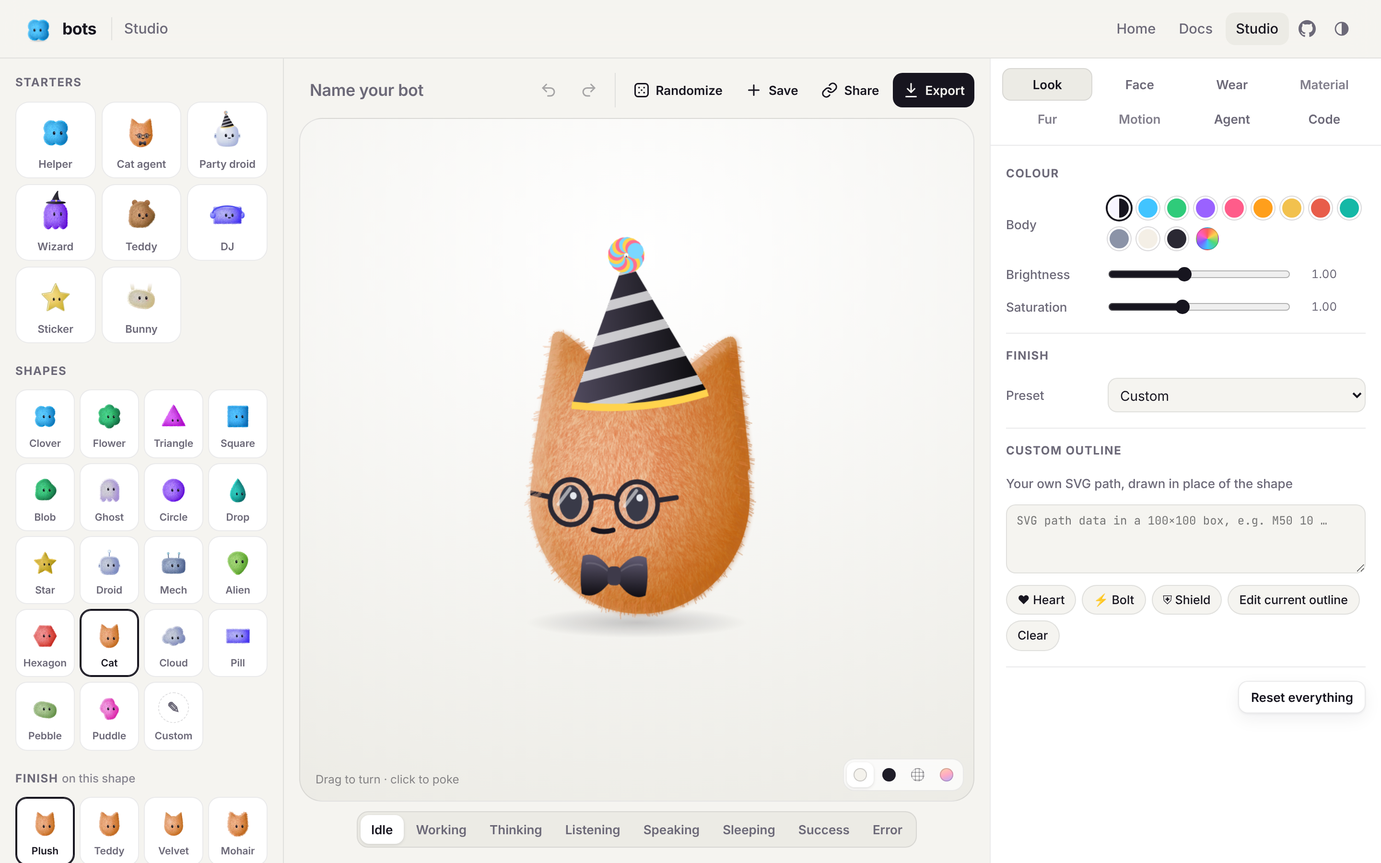
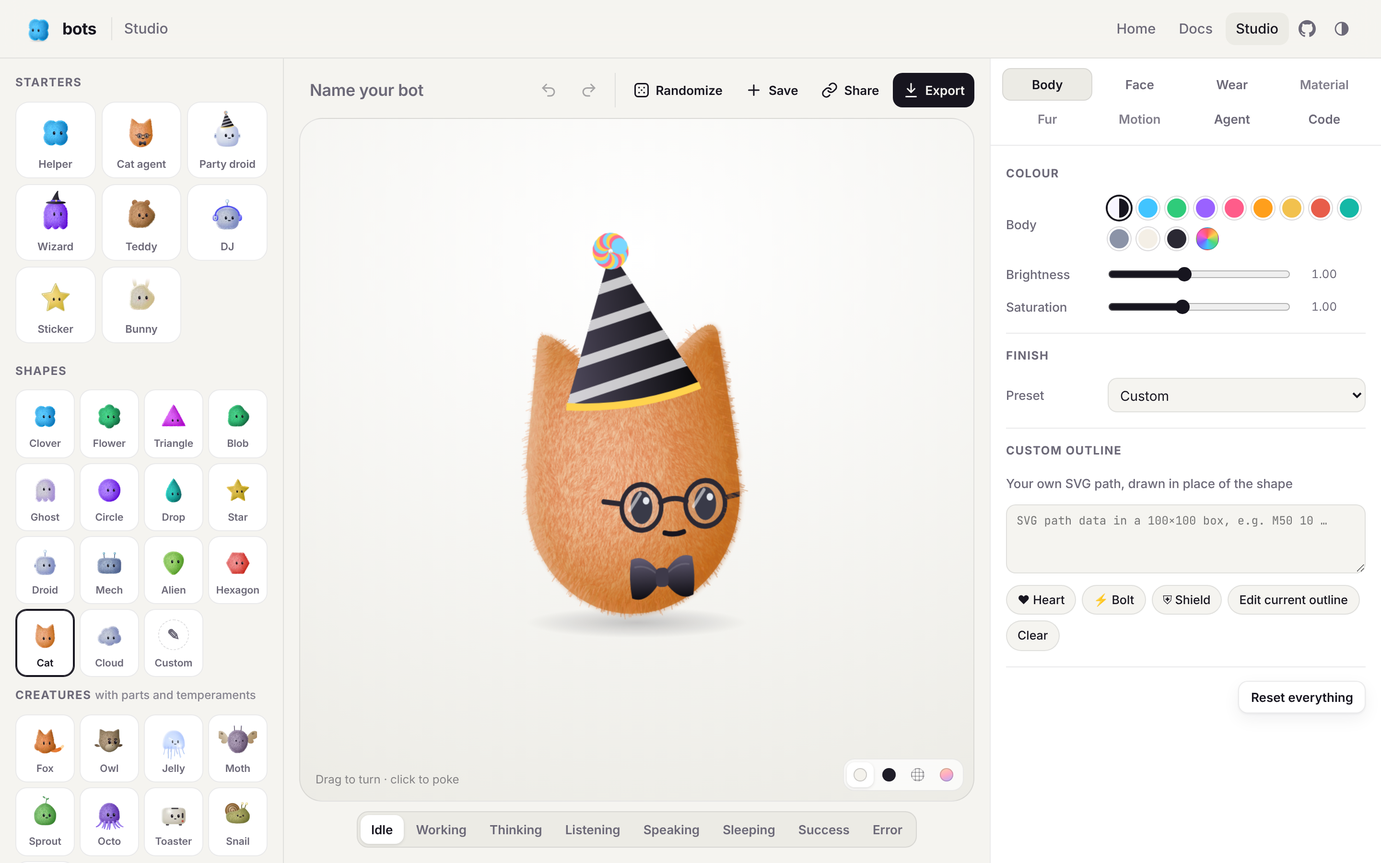
The cast: nine creatures, final budgets, README images; cut swarm, orb, glyph
The cast is fox, owl, jelly, moth, sprout, octo, toaster, snail and comet.
Swarm, orb and glyph are cut (their names resolve to living bodies), as are
the Studio's body-parts controls and its Mood control. The owl gets a beak
and more depth for its swivel. Size budgets are re-measured for the release
and the README gallery shows the new roster.

Claude-Session: https://claude.ai/code/session_012xf11w1ipyXASqityd5ZGd

diff --git a/docs/options.html b/docs/options.html
@@ -57,7 +57,7 @@
 
 <h2 id="basics">Basics<a class="anchor" href="#basics" aria-label="Link to this section">#</a></h2>
 <div class="table-wrap"><table class="props"><thead><tr><th scope="col">Option</th><th scope="col">Values</th><th scope="col">Default</th></tr></thead><tbody>
-<tr><td data-label="Option"><code>type</code></td><td data-label="Values"><code>clover</code>, <code>flower</code>, <code>triangle</code>, <code>blob</code>, <code>ghost</code>, <code>circle</code>, <code>drop</code>, <code>star</code>, <code>droid</code>, <code>mech</code>, <code>alien</code>, <code>hexagon</code>, <code>cat</code>, <code>cloud</code>, one of <a href="creatures.html">the cast</a> (<code>fox</code>, <code>owl</code>, <code>jelly</code>, <code>moth</code>, <code>sprout</code>, <code>octo</code>, <code>toaster</code>, <code>snail</code>, <code>comet</code>, <code>swarm</code>, <code>orb</code>, <code>glyph</code>), or one you registered. Retired names (<code>square</code>, <code>pill</code>, <code>pebble</code>, <code>puddle</code>, <code>pangolin</code>, <code>axolotl</code>) resolve to the nearest living body.</td><td data-label="Default"><code>clover</code></td></tr>
+<tr><td data-label="Option"><code>type</code></td><td data-label="Values"><code>clover</code>, <code>flower</code>, <code>triangle</code>, <code>blob</code>, <code>ghost</code>, <code>circle</code>, <code>drop</code>, <code>star</code>, <code>droid</code>, <code>mech</code>, <code>alien</code>, <code>hexagon</code>, <code>cat</code>, <code>cloud</code>, one of <a href="creatures.html">the cast</a> (<code>fox</code>, <code>owl</code>, <code>jelly</code>, <code>moth</code>, <code>sprout</code>, <code>octo</code>, <code>toaster</code>, <code>snail</code>, <code>comet</code>), or one you registered. Retired names (<code>square</code>, <code>pill</code>, <code>pebble</code>, <code>puddle</code>, <code>pangolin</code>, <code>axolotl</code>, <code>swarm</code>, <code>orb</code>, <code>glyph</code>) resolve to the nearest living body.</td><td data-label="Default"><code>clover</code></td></tr>
 <tr><td data-label="Option"><code>state</code></td><td data-label="Values"><code>default</code> (idle), <code>listening</code>, <code>thinking</code>, <code>speaking</code>, <code>working</code>, <code>success</code>, <code>error</code>, <code>sleeping</code>, or one you registered</td><td data-label="Default"><code>default</code></td></tr>
 <tr><td data-label="Option"><code>face</code></td><td data-label="Values"><code>eyes</code>, <code>mouth</code></td><td data-label="Default"><code>eyes</code></td></tr>
 <tr><td data-label="Option"><code>size</code></td><td data-label="Values">box size in px</td><td data-label="Default"><code>64</code></td></tr>
@@ -85,7 +85,7 @@
 <tr><td data-label="Option"><code>color</code></td><td data-label="Values">body colour, any CSS hex colour</td><td data-label="Default">the shape's own</td></tr>
 <tr><td data-label="Option"><code>ink</code></td><td data-label="Values">face colour</td><td data-label="Default">auto: dark on light bodies</td></tr>
 <tr><td data-label="Option"><code>brightness</code>, <code>saturation</code></td><td data-label="Values">0–2</td><td data-label="Default"><code>1</code></td></tr>
-<tr><td data-label="Option"><code>shading</code></td><td data-label="Values"><code>fabric</code> (plush fur), <code>plastic</code>, <code>smooth</code>, <code>crisp</code>, <code>flat</code>, <code>glass</code> (see-through, light pooling on the far side, a Fresnel rim), <code>lantern</code> (lit from within: glows brighter while it thinks, talks or laughs), <code>line</code> (an outline only, in the body colour, light on dark pages), <code>swarm</code> (dots that gather into the shape and scatter when it is low)</td><td data-label="Default"><code>fabric</code></td></tr>
+<tr><td data-label="Option"><code>shading</code></td><td data-label="Values"><code>fabric</code> (plush fur), <code>plastic</code>, <code>smooth</code>, <code>crisp</code>, <code>flat</code>, <code>glass</code> (see-through, light pooling on the far side, a Fresnel rim), <code>lantern</code> (lit from within: glows brighter while it thinks, talks or laughs), <code>line</code> (an outline only, in the body colour, light on dark pages)</td><td data-label="Default"><code>fabric</code></td></tr>
 <tr><td data-label="Option"><code>glow</code>, <code>glowColor</code></td><td data-label="Values">lantern: strength 0–2, colour</td><td data-label="Default"><code>1</code>, a lighter body tint</td></tr>
 <tr><td data-label="Option"><code>opacity</code></td><td data-label="Values">glass: how see-through, 0–1</td><td data-label="Default"><code>0.8</code></td></tr>
 <tr><td data-label="Option"><code>age</code></td><td data-label="Values">a lifecycle creature's age, 0 (seed) to 1 (grown)</td><td data-label="Default"><code>1</code></td></tr>
@@ -164,7 +164,7 @@
 
 <h2 id="motion">Motion<a class="anchor" href="#motion" aria-label="Link to this section">#</a></h2>
 <div class="table-wrap"><table class="props"><thead><tr><th scope="col">Option</th><th scope="col">Values</th><th scope="col">Default</th></tr></thead><tbody>
-<tr><td data-label="Option"><code>temperament</code></td><td data-label="Values"><code>auto</code> (the type's own), <code>none</code>, or one of <code>eager</code>, <code>sunny</code>, <code>sharp</code>, <code>stoic</code>, <code>wobbly</code>, <code>shy</code>, <code>calm</code>, <code>nervous</code>, <code>showOff</code>, <code>precise</code>, <code>steady</code>, <code>curious</code>, <code>serious</code>, <code>aloof</code>, <code>dreamy</code>, <code>chipper</code>, <code>sleepy</code>, and the cast's <code>sly</code>, <code>scholar</code>, <code>drawn</code>, <code>busy</code>, <code>perky</code>, <code>patient</code>, <code>hive</code>, <code>serene</code></td><td data-label="Default"><code>auto</code></td></tr>
+<tr><td data-label="Option"><code>temperament</code></td><td data-label="Values"><code>auto</code> (the type's own), <code>none</code>, or one of <code>eager</code>, <code>sunny</code>, <code>sharp</code>, <code>stoic</code>, <code>wobbly</code>, <code>shy</code>, <code>calm</code>, <code>nervous</code>, <code>showOff</code>, <code>precise</code>, <code>steady</code>, <code>curious</code>, <code>serious</code>, <code>aloof</code>, <code>dreamy</code>, <code>chipper</code>, <code>sleepy</code>, and the cast's <code>sly</code>, <code>scholar</code>, <code>drawn</code>, <code>busy</code>, <code>perky</code>, <code>patient</code></td><td data-label="Default"><code>auto</code></td></tr>
 <tr><td data-label="Option"><code>speed</code></td><td data-label="Values">animation speed multiplier</td><td data-label="Default"><code>1</code></td></tr>
 <tr><td data-label="Option"><code>turn</code></td><td data-label="Values">how far it looks round</td><td data-label="Default"><code>1</code></td></tr>
 <tr><td data-label="Option"><code>blinkRate</code>, <code>glanceRate</code></td><td data-label="Values">multipliers</td><td data-label="Default"><code>1</code></td></tr>

diff --git a/docs/creatures.html b/docs/creatures.html
@@ -5,7 +5,7 @@
   <meta charset="utf-8" />
   <meta name="viewport" content="width=device-width, initial-scale=1" />
   <title>The cast · bots docs</title>
-  <meta name="description" content="Twelve creatures beyond the first fourteen shapes: parts with motion of their own, temperaments, materials, a lifecycle, and how to make your own." />
+  <meta name="description" content="Nine creatures beyond the first fourteen shapes: parts with motion of their own, temperaments, materials, a lifecycle, and how to make your own." />
   <meta name="theme-color" content="#f5f4f0" media="(prefers-color-scheme: light)" />
   <meta name="theme-color" content="#111016" media="(prefers-color-scheme: dark)" />
   <script>try{var t=localStorage.getItem('bots-theme');if(t)document.documentElement.dataset.theme=t}catch(e){}</script>
@@ -63,9 +63,6 @@
 <tr><td data-label="Creature"><code>toaster</code></td><td data-label="What it is">The appliance</td><td data-label="Temperament"><code>perky</code></td><td data-label="Parts and habits">a slot, a lever, and toast that pops on success</td></tr>
 <tr><td data-label="Creature"><code>snail</code></td><td data-label="What it is">The patient one: eyes on stalks, a shell</td><td data-label="Temperament"><code>patient</code> (slow)</td><td data-label="Parts and habits">retreats into its shell on error and to sleep</td></tr>
 <tr><td data-label="Creature"><code>comet</code></td><td data-label="What it is">The fast-mode mascot: a lantern star</td><td data-label="Temperament"><code>showOff</code> (spins)</td><td data-label="Parts and habits">a streak that lengthens with speed</td></tr>
-<tr><td data-label="Creature"><code>swarm</code></td><td data-label="What it is">The crew: dots that gather into one shape</td><td data-label="Temperament"><code>hive</code> (floats)</td><td data-label="Parts and habits">the <code>swarm</code> material; scatters when it is low</td></tr>
-<tr><td data-label="Creature"><code>orb</code></td><td data-label="What it is">The serious family: a glass sphere</td><td data-label="Temperament"><code>serene</code> (floats, still)</td><td data-label="Parts and habits">no face until it speaks, reacts or looks (<code>faceOn: 'talk'</code>)</td></tr>
-<tr><td data-label="Creature"><code>glyph</code></td><td data-label="What it is">The monochrome line family</td><td data-label="Temperament"><code>precise</code> (snap blinks)</td><td data-label="Parts and habits">the <code>line</code> material: an outline in its colour, light on dark pages</td></tr>
 </tbody></table></div>
 <p>Use them like any type: <code>&lt;bot-avatar type="owl"&gt;</code>, <code>createBot(el, { type: 'octo' })</code>. Each brings its own defaults (the jelly is glass, the comet a lantern, the glyph a line); anything you set wins. <code>identity</code> keeps the draw it always had, so an id keeps its bot (an id that drew a retired shape gets that shape's successor).</p>
 
@@ -75,7 +72,7 @@
 <h2 id="bodies-that-change">Bodies that change<a class="anchor" href="#bodies-that-change" aria-label="Link to this section">#</a></h2>
 <p>A creature can have another outline it becomes in some states (<code>morph</code>): the snail's shell. The body blends between the two over a moment, keeping its fur. A creature can also have a lifecycle (<code>stages</code>): the sprout is a seed at <code>age: 0</code>, a hatchling at <code>0.5</code>, grown at <code>1</code>. Age is yours to keep (a count of sessions, days since it hatched); pass it back and it grows.</p>
 <pre class="code" data-lang="html">&lt;bot-avatar type="sprout" age="0.2"&gt;&lt;/bot-avatar&gt;
-&lt;bot-avatar type="orb" state="speaking"&gt;&lt;/bot-avatar&gt;   &lt;!-- the face appears --&gt;</pre>
+&lt;bot-avatar type="snail" state="sleeping"&gt;&lt;/bot-avatar&gt;   &lt;!-- retreats into its shell --&gt;</pre>
 
 <h2 id="your-own-creature">Your own creature<a class="anchor" href="#your-own-creature" aria-label="Link to this section">#</a></h2>
 <p>The built-in cast lives in <code>src/creatures/</code>, one module each, and <code>registerCreature()</code> takes the same format:</p>

diff --git a/playground/app.js b/playground/app.js
@@ -101,14 +101,14 @@ const STRS = {
   accessoryColor: undefined, path: undefined, label: undefined, preset: undefined, furPattern: 'none', furColor2: undefined,
   lightColor: undefined, fillColor: undefined, rimColor: undefined, eyeStyle: 'round', irisColor: undefined, brows: 'auto',
   mouthStyle: 'smile', expression: 'neutral', whirlColor: undefined, scarfColor: undefined, badge: undefined, badgeColor: undefined,
-  ears: 'none', antennae: 'auto', blushColor: undefined, status: 'none', mood: 'auto',
+  ears: 'none', antennae: 'auto', blushColor: undefined, status: 'none',
   quirk: undefined, temperament: 'auto', glowColor: undefined, faceOn: undefined,
 };
 // `sounds` is a boolean or a volume (0–1).
 const SPECIAL = { sounds: false };
 const KEYS = [...Object.keys(STRS), ...Object.keys(NUMERIC), ...Object.keys(BOOLS), ...Object.keys(SPECIAL)];
 // Options that belong to the newer agent/play features: only sent when supported.
-const NEW_KEYS = ['status', 'mood', 'social', 'toss', 'petting', 'sounds', 'affect', 'announce'];
+const NEW_KEYS = ['status', 'social', 'toss', 'petting', 'sounds', 'affect', 'announce'];
 
 const defaultOf = (key, o) => {
   // A preset's values are the starting point its controls show.
@@ -546,7 +546,6 @@ tabPanel('look', () => [
   grp('Finish',
     select('preset', 'Preset', ['', ...Object.keys(STYLES)], ['Custom', ...Object.keys(STYLES).map(title)]),
     ageRow),
-  grp('Body parts', ...bodyParts()),
   grp('Custom outline',
     h('label', { class: 'lbl block', for: 'path' }, 'Your own SVG path, drawn in place of the shape'),
     pathArea,
@@ -615,23 +614,6 @@ syncs.push(() => {
   for (const t of tiles) t.b.setAttribute('aria-pressed', String(t.on()));
   refreshTiles();
 });
-
-// --- Body parts (on the Body tab) ------------------------------------------------------
-
-function bodyParts() {
-  const ears = [['none', 'No ears'], ...EAR_STYLES.filter((v) => v !== 'none').map((v) => [v, `${title(v)} ears`])];
-  const ants = [['auto', "Shape's own"], ['none', 'No antennae'], ['one', 'Antenna'], ['two', 'Antennae']];
-  return [
-    tileGrid(ears.map(([v, label]) => ({
-      key: `ears:${v}`, label, look: () => ({ ears: v, thumbZoom: 1.3, thumbDy: -0.08 }),
-      on: () => (opts.ears || 'none') === v, tap: () => update({ ears: v === 'none' ? undefined : v }),
-    }))),
-    tileGrid(ants.map(([v, label]) => ({
-      key: `antennae:${v}`, label, look: () => ({ antennae: v, thumbZoom: 1.3, thumbDy: -0.08 }),
-      on: () => (opts.antennae || 'auto') === v, tap: () => update({ antennae: v === 'auto' ? undefined : v }),
-    }))),
-  ];
-}
 
 // --- Wear ----------------------------------------------------------------------------
 
@@ -778,7 +760,7 @@ const quirkChips = QUIRKS.map((q) => {
 
 tabPanel('light', () => [
   grp('Material',
-    chipRow('shading', 'Material', SHADINGS, ['Plush', 'Plastic', 'Smooth', 'Crisp', 'Flat', 'Glass', 'Lantern', 'Line', 'Swarm']),
+    chipRow('shading', 'Material', SHADINGS, ['Plush', 'Plastic', 'Smooth', 'Crisp', 'Flat', 'Glass', 'Lantern', 'Line']),
     range('roundness', 'Roundness'),
     range('gloss', 'Gloss'),
     range('depth', 'Depth'),
@@ -1003,7 +985,6 @@ tabPanel('agent', () => [
       return b;
     })),
     when(supports('status'), chipRow('status', 'Status badge', ['none', 'typing', 'loading', 'done', 'error', 'auto'], ['None', 'Typing…', 'Loading', 'Done', 'Error', 'Auto'])),
-    when(supports('mood'), select('mood', 'Mood', ['auto', 'neutral', 'happy', 'sleepy', 'excited', 'grumpy', 'calm'], ['Automatic', 'Neutral', 'Happy', 'Sleepy', 'Excited', 'Grumpy', 'Calm'])),
     when(supports('social'), toggles(toggle('social', 'Social: glance at other bots (adds a friend)')))),
   grp('React',
     h('div', { class: 'chips' }, ...['happy', 'joy', 'surprised', 'love', 'confused', 'worried', 'sad', 'angry', 'dizzy', 'smug'].map((e) =>

diff --git a/src/render.js b/src/render.js
@@ -556,33 +556,6 @@ function stagedShape(shape, age) {
   return blendShapes(st[i], st[i + 1], q / AGE_STEPS, `a${q}`);
 }
 
-/** Dots filling a silhouette, for the swarm: a jittered grid, kept per shape. */
-const swarmCache = new WeakMap();
-function swarmDots(shape) {
-  let d = swarmCache.get(shape);
-  if (d) return d;
-  const rand = mulberry32(0.4242);
-  const pts = shape.points;
-  const inside = (x, y) => {
-    let c = false;
-    for (let i = 0, j = pts.length - 1; i < pts.length; j = i++) {
-      const [xi, yi] = pts[i], [xj, yj] = pts[j];
-      if (yi > y !== yj > y && x < ((xj - xi) * (y - yi)) / (yj - yi) + xi) c = !c;
-    }
-    return c;
-  };
-  d = [];
-  const step = 0.125;
-  for (let y = shape.bounds.minY + step * 0.5; y < shape.bounds.maxY; y += step) {
-    for (let x = shape.bounds.minX + step * 0.5; x < shape.bounds.maxX; x += step) {
-      const px = x + (rand() - 0.5) * step * 0.7, py = y + (rand() - 0.5) * step * 0.7;
-      if (inside(px * 1.04, py * 1.04)) d.push({ x: px, y: py, r: 0.6 + rand() * 0.6, ph: rand() * Math.PI * 2, u: rand() * 2 - 1 });
-    }
-  }
-  swarmCache.set(shape, d);
-  return d;
-}
-
 export function drawBot(ctx, { size, dpr = 1, pose, look, time = 0 }, { gpu = null, relaxed = false } = {}) {
   const full = size * OVERSCAN;
   ctx.setTransform(dpr, 0, 0, dpr, 0, 0);
@@ -599,9 +572,9 @@ export function drawBot(ctx, { size, dpr = 1, pose, look, time = 0 }, { gpu = nu
   const lx = Math.sin(la), ly = -Math.cos(la);
   const fabric = look.shading === 'fabric';
   const glass = look.shading === 'glass', lantern = look.shading === 'lantern';
-  // Line (a stroked outline, no body) and swarm (dots) have no solid body at all.
-  const line = look.shading === 'line', swarm = look.shading === 'swarm';
-  const hollow = line || swarm;
+  // Line art (a stroked outline) has no solid body at all.
+  const line = look.shading === 'line';
+  const hollow = line;
   // Glass is see-through: its body is painted at part alpha, which the GPU body doesn't do.
   if (glass || hollow) gpu = null;
   // Line art draws in the body colour, flipped to light on a dark page when the colour is dark.
@@ -964,25 +937,6 @@ export function drawBot(ctx, { size, dpr = 1, pose, look, time = 0 }, { gpu = nu
       lc.strokeStyle = lineC;
       lc.lineWidth = Math.max(1.5, R * 0.06);
       lc.stroke(stack(shapePath(shape), [slices[slices.length - 1]]));
-    } else {
-      // The swarm: dots fill the silhouette, drifting a little, spreading when it's low.
-      const dots = swarmDots(shape);
-      const spread = 0.15 * pose.sleep + 0.4 * Math.max(0, -pose.smile - 0.3) + 0.08 * pose.think;
-      const dim = 1 - spread * 0.5;
-      const rr = R * (look.swarmSize ?? 0.05);
-      const fy = shape.faceY, fsw = 0.42 * shape.faceScale;
-      for (const d of dots) {
-        // Dots thin out round the face, so the eyes read through the cloud.
-        const nearFace = clamp(1 - Math.hypot(d.x / 1.3, (d.y - fy) / 0.9) / fsw, 0, 1);
-        const wx = Math.sin(time * 1.3 + d.ph) * 0.02 + d.u * spread * 0.5 * (0.6 + 0.4 * Math.sin(time * 0.7 + d.ph));
-        const wy = Math.cos(time * 1.1 + d.ph * 1.3) * 0.02 + spread * 0.3 * Math.sin(d.ph);
-        const [X, Y] = proj(d.x * (1 + spread * 0.6) + wx, d.y * (1 + spread * 0.4) + wy, d.u * D * 0.5);
-        const lit = 0.5 + 0.5 * (d.x * lx + d.y * ly);
-        lc.fillStyle = rgba(shade(base, -0.2 + 0.35 * lit), (0.75 + 0.25 * d.r) * dim * (1 - nearFace * 0.7));
-        lc.beginPath();
-        lc.arc(X, Y, rr * d.r * (1 + d.u * D * 0.3 * s) * (1 - nearFace * 0.45), 0, Math.PI * 2);
-        lc.fill();
-      }
     }
   }
   // Hollow bodies have no silhouette to paint inside: everything goes on top.

diff --git a/src/index.d.ts b/src/index.d.ts
@@ -1,14 +1,14 @@
 export type BotType =
   | 'clover' | 'flower' | 'triangle' | 'blob' | 'ghost' | 'circle' | 'drop' | 'star'
   | 'droid' | 'mech' | 'alien' | 'hexagon' | 'cat' | 'cloud'
-  | 'fox' | 'owl' | 'jelly' | 'moth' | 'sprout' | 'octo' | 'toaster' | 'snail' | 'comet' | 'swarm' | 'orb' | 'glyph';
+  | 'fox' | 'owl' | 'jelly' | 'moth' | 'sprout' | 'octo' | 'toaster' | 'snail' | 'comet';
 export type BotState = 'default' | 'working' | 'sleeping' | 'listening' | 'thinking' | 'speaking' | 'error' | 'success' | (string & {});
-export type BotShading = 'fabric' | 'plastic' | 'smooth' | 'crisp' | 'flat' | 'glass' | 'lantern' | 'line' | 'swarm';
+export type BotShading = 'fabric' | 'plastic' | 'smooth' | 'crisp' | 'flat' | 'glass' | 'lantern' | 'line';
 /** Imperfections: a sewn-on patch, a tuft on the crown, a worn spot, a seam. One or more, space-separated or an array. */
 export type BotQuirk = 'patch' | 'cowlick' | 'scuff' | 'stitches';
 /** How a species behaves: motion defaults, a resting-face lean and habits (aloof looks away, shy ducks when poked, dreamy floats, precise snaps). */
 export type BotTemperament = 'eager' | 'sunny' | 'sharp' | 'stoic' | 'wobbly' | 'shy' | 'calm' | 'nervous' | 'showOff' | 'precise' | 'steady' | 'curious' | 'serious' | 'aloof' | 'dreamy' | 'chipper' | 'sleepy'
-  | 'sly' | 'scholar' | 'drawn' | 'busy' | 'perky' | 'patient' | 'hive' | 'serene' | (string & {});
+  | 'sly' | 'scholar' | 'drawn' | 'busy' | 'perky' | 'patient' | (string & {});
 /** A part a creature has beyond its body, drawn with motion of its own (see the Creatures guide). */
 export interface BotPart { kind: 'tail' | 'tendrils' | 'wings' | 'frills' | 'arms' | 'shell' | 'plates' | 'slot' | 'popup' | 'sprig' | 'knob' | 'spiral' | 'streak' | 'beak'; layer?: 'skin' | 'back' | 'front'; [param: string]: unknown }
 /** A creature module: a preset plus parts, a temperament, defaults, a morph outline and a lifecycle. */
@@ -28,7 +28,7 @@ export type BotHat = 'none' | 'beanie' | 'party' | 'crown' | 'beret' | 'tophat' 
 export type BotEyeStyle = 'round' | 'oval' | 'wide' | 'dot' | 'sleepy' | 'happy' | 'line' | 'star' | 'heart';
 export type BotMouthStyle = 'smile' | 'cat' | 'line' | 'o' | 'teeth' | 'tongue';
 export type BotFurPattern = 'none' | 'two-tone' | 'gradient' | 'tips' | 'spots' | 'stripes' | 'belly' | 'patches';
-export type BotStyle = 'plush' | 'teddy' | 'velvet' | 'mohair' | 'felt' | 'vinyl' | 'clay' | 'sticker' | 'paper' | 'glass' | 'lantern' | 'ragdoll' | 'line' | 'swarm';
+export type BotStyle = 'plush' | 'teddy' | 'velvet' | 'mohair' | 'felt' | 'vinyl' | 'clay' | 'sticker' | 'paper' | 'glass' | 'lantern' | 'ragdoll' | 'line';
 export type BotExpression = 'neutral' | 'happy' | 'joy' | 'surprised' | 'worried' | 'sad' | 'angry' | 'smug' | 'sleepy' | 'confused' | 'dizzy' | 'love';
 /** Face channels for expressions and custom states. */
 export interface BotFace { brow?: number; browTilt?: number; eyeWide?: number; squint?: number; smile?: number; mouthOpen?: number; happy?: number; dizzy?: number; blushPulse?: number }
@@ -358,6 +358,6 @@ export declare const BASE_TYPES: BotType[];
 export declare const creatures: BotCreature[];
 /** Add a creature of your own, in the same format as the built-in cast. */
 export declare function registerCreature(def: BotCreature): void;
-/** Retired names and the living body each resolves to (square, pangolin → hexagon; pill, pebble, puddle, axolotl → blob). */
+/** Retired names and the living body each resolves to (see RETIRED in shapes.js). */
 export declare const RETIRED: Record<string, BotType>;
 export declare function liveType(type: string): BotType;

diff --git a/docs/src/options.html b/docs/src/options.html
@@ -11,7 +11,7 @@ createBot('#agent', { type: 'cat', face: 'mouth', hat: 'party', bowTie: true, ac
 
 <h2>Basics</h2>
 ::table Option | Values | Default
-`type` | `clover`, `flower`, `triangle`, `blob`, `ghost`, `circle`, `drop`, `star`, `droid`, `mech`, `alien`, `hexagon`, `cat`, `cloud`, one of <a href="creatures.html">the cast</a> (`fox`, `owl`, `jelly`, `moth`, `sprout`, `octo`, `toaster`, `snail`, `comet`, `swarm`, `orb`, `glyph`), or one you registered. Retired names (`square`, `pill`, `pebble`, `puddle`, `pangolin`, `axolotl`) resolve to the nearest living body. | `clover`
+`type` | `clover`, `flower`, `triangle`, `blob`, `ghost`, `circle`, `drop`, `star`, `droid`, `mech`, `alien`, `hexagon`, `cat`, `cloud`, one of <a href="creatures.html">the cast</a> (`fox`, `owl`, `jelly`, `moth`, `sprout`, `octo`, `toaster`, `snail`, `comet`), or one you registered. Retired names (`square`, `pill`, `pebble`, `puddle`, `pangolin`, `axolotl`, `swarm`, `orb`, `glyph`) resolve to the nearest living body. | `clover`
 `state` | `default` (idle), `listening`, `thinking`, `speaking`, `working`, `success`, `error`, `sleeping`, or one you registered | `default`
 `face` | `eyes`, `mouth` | `eyes`
 `size` | box size in px | `64`
@@ -39,7 +39,7 @@ createBot('#agent', { type: 'cat', face: 'mouth', hat: 'party', bowTie: true, ac
 `color` | body colour, any CSS hex colour | the shape's own
 `ink` | face colour | auto: dark on light bodies
 `brightness`, `saturation` | 0–2 | `1`
-`shading` | `fabric` (plush fur), `plastic`, `smooth`, `crisp`, `flat`, `glass` (see-through, light pooling on the far side, a Fresnel rim), `lantern` (lit from within: glows brighter while it thinks, talks or laughs), `line` (an outline only, in the body colour, light on dark pages), `swarm` (dots that gather into the shape and scatter when it is low) | `fabric`
+`shading` | `fabric` (plush fur), `plastic`, `smooth`, `crisp`, `flat`, `glass` (see-through, light pooling on the far side, a Fresnel rim), `lantern` (lit from within: glows brighter while it thinks, talks or laughs), `line` (an outline only, in the body colour, light on dark pages) | `fabric`
 `glow`, `glowColor` | lantern: strength 0–2, colour | `1`, a lighter body tint
 `opacity` | glass: how see-through, 0–1 | `0.8`
 `age` | a lifecycle creature's age, 0 (seed) to 1 (grown) | `1`
@@ -120,7 +120,7 @@ chest | `badge`, or `badge:XYZ` with up to 3 characters
 
 <h2>Motion</h2>
 ::table Option | Values | Default
-`temperament` | `auto` (the type's own), `none`, or one of `eager`, `sunny`, `sharp`, `stoic`, `wobbly`, `shy`, `calm`, `nervous`, `showOff`, `precise`, `steady`, `curious`, `serious`, `aloof`, `dreamy`, `chipper`, `sleepy`, and the cast's `sly`, `scholar`, `drawn`, `busy`, `perky`, `patient`, `hive`, `serene` | `auto`
+`temperament` | `auto` (the type's own), `none`, or one of `eager`, `sunny`, `sharp`, `stoic`, `wobbly`, `shy`, `calm`, `nervous`, `showOff`, `precise`, `steady`, `curious`, `serious`, `aloof`, `dreamy`, `chipper`, `sleepy`, and the cast's `sly`, `scholar`, `drawn`, `busy`, `perky`, `patient` | `auto`
 `speed` | animation speed multiplier | `1`
 `turn` | how far it looks round | `1`
 `blinkRate`, `glanceRate` | multipliers | `1`

diff --git a/docs/src/creatures.html b/docs/src/creatures.html
@@ -1,4 +1,4 @@
-<!-- The cast | Twelve creatures beyond the first fourteen shapes: parts with motion of their own, temperaments, materials, a lifecycle, and how to make your own. -->
+<!-- The cast | Nine creatures beyond the first fourteen shapes: parts with motion of their own, temperaments, materials, a lifecycle, and how to make your own. -->
 <h1>The cast</h1>
 <p class="sub">The first fourteen bodies are outlines with a face. The cast are someones: each has parts that move on their own, a temperament, a register, and in some cases a second body it becomes.</p>
 
@@ -13,9 +13,6 @@
 `toaster` | The appliance | `perky` | a slot, a lever, and toast that pops on success
 `snail` | The patient one: eyes on stalks, a shell | `patient` (slow) | retreats into its shell on error and to sleep
 `comet` | The fast-mode mascot: a lantern star | `showOff` (spins) | a streak that lengthens with speed
-`swarm` | The crew: dots that gather into one shape | `hive` (floats) | the `swarm` material; scatters when it is low
-`orb` | The serious family: a glass sphere | `serene` (floats, still) | no face until it speaks, reacts or looks (`faceOn: 'talk'`)
-`glyph` | The monochrome line family | `precise` (snap blinks) | the `line` material: an outline in its colour, light on dark pages
 ::end
 <p>Use them like any type: <code>&lt;bot-avatar type="owl"&gt;</code>, <code>createBot(el, { type: 'octo' })</code>. Each brings its own defaults (the jelly is glass, the comet a lantern, the glyph a line); anything you set wins. <code>identity</code> keeps the draw it always had, so an id keeps its bot (an id that drew a retired shape gets that shape's successor).</p>
 
@@ -26,7 +23,7 @@
 <p>A creature can have another outline it becomes in some states (<code>morph</code>): the snail's shell. The body blends between the two over a moment, keeping its fur. A creature can also have a lifecycle (<code>stages</code>): the sprout is a seed at <code>age: 0</code>, a hatchling at <code>0.5</code>, grown at <code>1</code>. Age is yours to keep (a count of sessions, days since it hatched); pass it back and it grows.</p>
 ```html
 <bot-avatar type="sprout" age="0.2"></bot-avatar>
-<bot-avatar type="orb" state="speaking"></bot-avatar>   <!-- the face appears -->
+<bot-avatar type="snail" state="sleeping"></bot-avatar>   <!-- retreats into its shell -->
 ```
 
 <h2>Your own creature</h2>

diff --git a/docs/index.html b/docs/index.html
@@ -71,7 +71,7 @@
 <p>Drop the element anywhere. Every option is an attribute in kebab-case; change one and the avatar eases into its new look.</p>
 <pre class="code" data-lang="html">&lt;bot-avatar type="clover" size="96"&gt;&lt;/bot-avatar&gt;
 &lt;bot-avatar type="cat" face="mouth" hat="party" bow-tie&gt;&lt;/bot-avatar&gt;</pre>
-<p>Fourteen shapes ship in the box: <code>clover</code>, <code>flower</code>, <code>triangle</code>, <code>blob</code>, <code>ghost</code>, <code>circle</code>, <code>drop</code>, <code>star</code>, <code>droid</code>, <code>mech</code>, <code>alien</code>, <code>hexagon</code>, <code>cat</code> and <code>cloud</code>, and <a href="creatures.html">a cast of twelve creatures</a> with parts and temperaments of their own. The <a href="../playground/">studio</a> shows them all and writes the markup for you.</p>
+<p>Fourteen shapes ship in the box: <code>clover</code>, <code>flower</code>, <code>triangle</code>, <code>blob</code>, <code>ghost</code>, <code>circle</code>, <code>drop</code>, <code>star</code>, <code>droid</code>, <code>mech</code>, <code>alien</code>, <code>hexagon</code>, <code>cat</code> and <code>cloud</code>, and <a href="creatures.html">a cast of nine creatures</a> with parts and temperaments of their own. The <a href="../playground/">studio</a> shows them all and writes the markup for you.</p>
 
 <h2 id="from-javascript">From JavaScript<a class="anchor" href="#from-javascript" aria-label="Link to this section">#</a></h2>
 <p><code>createBot()</code> puts an avatar in any element (or a selector) and hands back a controller:</p>

diff --git a/docs/src/index.html b/docs/src/index.html
@@ -27,7 +27,7 @@ npm i github:kucukkanat/bots#release
 <bot-avatar type="clover" size="96"></bot-avatar>
 <bot-avatar type="cat" face="mouth" hat="party" bow-tie></bot-avatar>
 ```
-<p>Fourteen shapes ship in the box: `clover`, `flower`, `triangle`, `blob`, `ghost`, `circle`, `drop`, `star`, `droid`, `mech`, `alien`, `hexagon`, `cat` and `cloud`, and <a href="creatures.html">a cast of twelve creatures</a> with parts and temperaments of their own. The <a href="../playground/">studio</a> shows them all and writes the markup for you.</p>
+<p>Fourteen shapes ship in the box: `clover`, `flower`, `triangle`, `blob`, `ghost`, `circle`, `drop`, `star`, `droid`, `mech`, `alien`, `hexagon`, `cat` and `cloud`, and <a href="creatures.html">a cast of nine creatures</a> with parts and temperaments of their own. The <a href="../playground/">studio</a> shows them all and writes the markup for you.</p>
 
 <h2>From JavaScript</h2>
 <p><code>createBot()</code> puts an avatar in any element (or a selector) and hands back a controller:</p>

diff --git a/src/creatures/owl.js b/src/creatures/owl.js
@@ -20,6 +20,8 @@ export default {
     parts: [
       // Small wings folded at the sides; the rest flap is subtle and they beat while it thinks.
       { kind: 'wings', y: 0.4, size: 0.45, style: 'leaf', color: '#86684B', layer: 'back' },
+      // A small hooked beak under the eyes; it opens with the mouth.
+      { kind: 'beak', y: 0.19, size: 0.11, color: '#E0A040', layer: 'front' },
     ],
   },
   temperament: 'scholar',
@@ -29,6 +31,8 @@ export default {
   defaults: {
     shading: 'fabric', furLength: 0.7, furDensity: 1.4, furFuzz: 0.3,
     eyeSize: 1.35, eyeStyle: 'round', brows: 'soft', mouthStyle: 'o',
+    // Plump through the depth, so it is still an owl when its head is turned side on mid-swivel.
+    depth: 1.3,
     furPattern: 'belly', furColor2: '#E0CFB2',
   },
 };

diff --git a/src/shapes.js b/src/shapes.js
@@ -138,7 +138,7 @@ export const BASE_TYPES = Object.keys(presets);
  * characters) still resolve, to the nearest living body, so old DNA codes,
  * crew pages and identities keep working.
  */
-export const RETIRED = { square: 'hexagon', pill: 'blob', pebble: 'blob', puddle: 'blob', pangolin: 'hexagon', axolotl: 'blob' };
+export const RETIRED = { square: 'hexagon', pill: 'blob', pebble: 'blob', puddle: 'blob', pangolin: 'hexagon', axolotl: 'blob', swarm: 'blob', orb: 'circle', glyph: 'hexagon' };
 /** A living type for any name: itself, a retired name's successor, or circle. */
 export const liveType = (type) => (presets[type] ? type : presets[RETIRED[type]] ? RETIRED[type] : 'circle');
 // The cast: creatures bring an outline plus parts, a temperament, defaults and morphs.

diff --git a/src/bot.js b/src/bot.js
@@ -38,7 +38,7 @@ export const DEFAULTS = Object.freeze({
   quality: 'auto',
 });
 
-export const SHADINGS = ['fabric', 'plastic', 'smooth', 'crisp', 'flat', 'glass', 'lantern', 'line', 'swarm'];
+export const SHADINGS = ['fabric', 'plastic', 'smooth', 'crisp', 'flat', 'glass', 'lantern', 'line'];
 export const QUIRKS = ['patch', 'cowlick', 'scuff', 'stitches'];
 export const HATS = HAT_STYLES;
 export const GLASSES = ['none', 'round', 'square', 'shades'];
